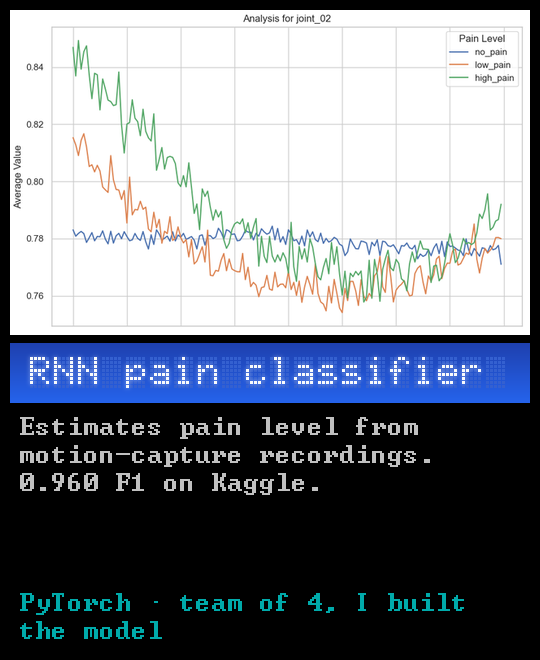
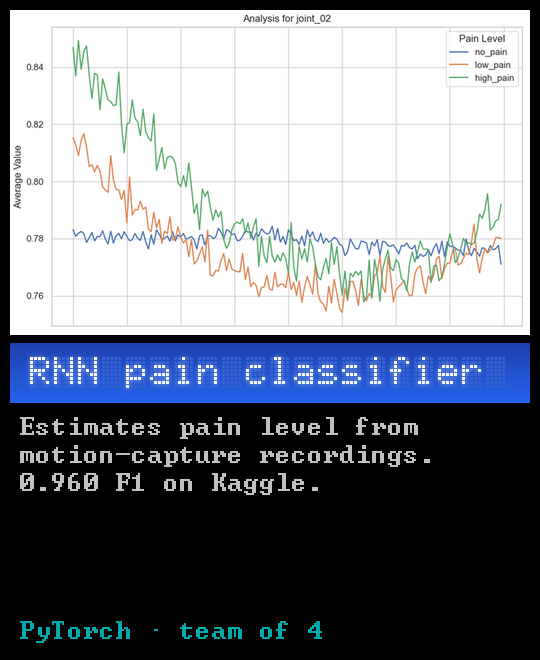
Remove first-person credit from the pain-classifier card

diff --git a/README.md b/README.md
@@ -6,7 +6,7 @@
 <a href="https://github.com/Negm2000/ros2-mecanum-bot"><img src="assets/projects/robot.png" width="270" alt="ROS 2 mecanum robot. A robot that can drive in any direction. I wrote the motor interface, the odometry and the visitor screen. C++, ROS 2 - B.Sc. graduation project (A+), team of 5. Picture: Drive base of the tour-guide robot on four mecanum wheels."></a>
 <a href="https://github.com/Negm2000/Seesaw"><img src="assets/projects/seesaw.gif" width="270" alt="Seesaw LQR control. Open-loop-unstable seesaw on real Quanser hardware. Friction ID and observer; PID vs pole placement vs LQR, best 0.33° RMS tracking. MATLAB, Simulink - team of 4, worked on every stage. Picture: A cart driving back and forth on a seesaw to keep it level."></a>
 <a href="https://github.com/Negm2000/Xonix-x86-assembly"><img src="assets/projects/xonix.gif" width="270" alt="Xonix in assembly. Two-player arcade game written by hand in assembly, about 4,800 lines. x86 assembly, runs in DOS. Picture: Two-player Xonix running in DOSBox."></a>
-<a href="https://github.com/Negm2000/RNN-pirate-pain-classification"><img src="assets/projects/pain.png" width="270" alt="RNN pain classifier. Estimates pain level from motion-capture recordings. 0.960 F1 on Kaggle. PyTorch - team of 4, I built the model. Picture: Joint movement over time for three pain levels."></a>
+<a href="https://github.com/Negm2000/RNN-pirate-pain-classification"><img src="assets/projects/pain.png" width="270" alt="RNN pain classifier. Estimates pain level from motion-capture recordings. 0.960 F1 on Kaggle. PyTorch - team of 4. Picture: Joint movement over time for three pain levels."></a>
 <a href="https://github.com/Negm2000/cancer-histopathology"><img src="assets/projects/cancer.png" width="270" alt="Cancer subtype CNN. Tells breast-cancer subtypes apart from microscope images; the heat map shows where the model looked. 4th of 196. PyTorch - team of 4. Picture: Tissue sample next to a heat map of where the model looked."></a>
 <a href="https://github.com/Negm2000/Harbour-Crane-FEM"><img src="assets/projects/dms.gif" width="270" alt="Crane modal analysis. Finite-element model of a harbour crane: its vibration modes, and one added beam that cut vibration at the boom tip by 65% for 5% more mass. MATLAB - own work, PoliMi course. Picture: The crane structure vibrating in its first three natural modes, 1.34, 1.59 and 4.03 Hz."></a>
 <a href="https://github.com/Negm2000/IoT-challenges"><img src="assets/projects/iot.gif" width="270" alt="ESP32 energy budget. How long a simulated ESP32 parking sensor lasts on one battery, from its power trace. Plus CoAP and MQTT traffic and a LoRaWAN capacity model. Python, Node-RED - own work, PoliMi IoT course. Picture: Scope trace of the sensor waking from deep sleep, booting, turning Wi-Fi on and off, and sleeping again; battery life 78 hours."></a>
